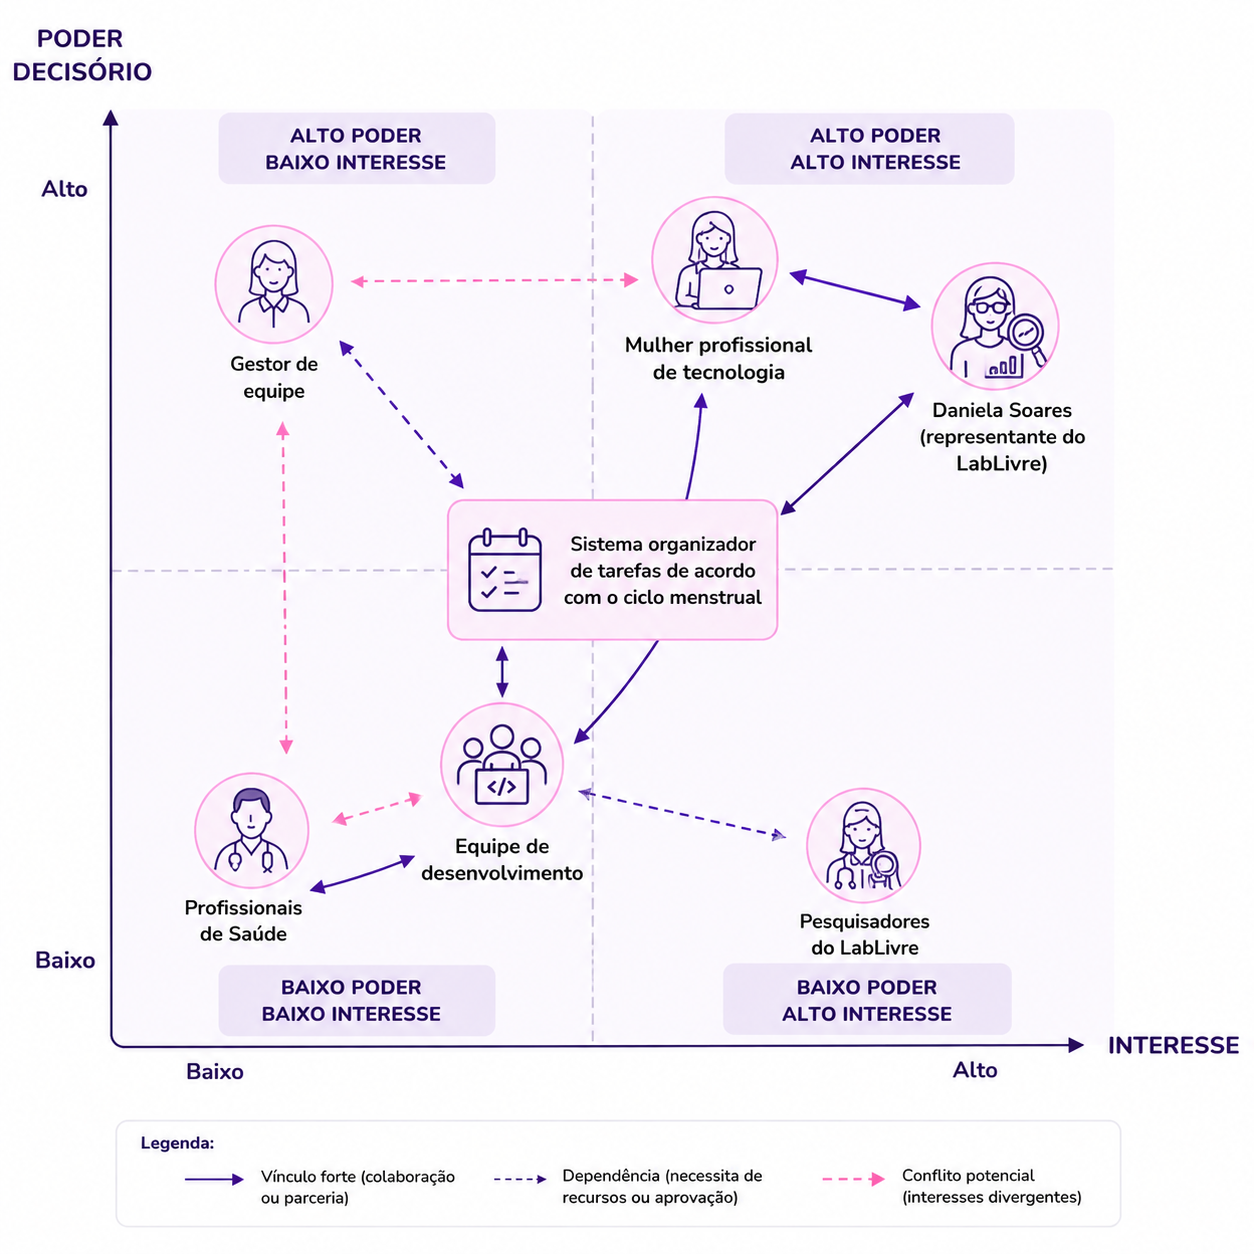
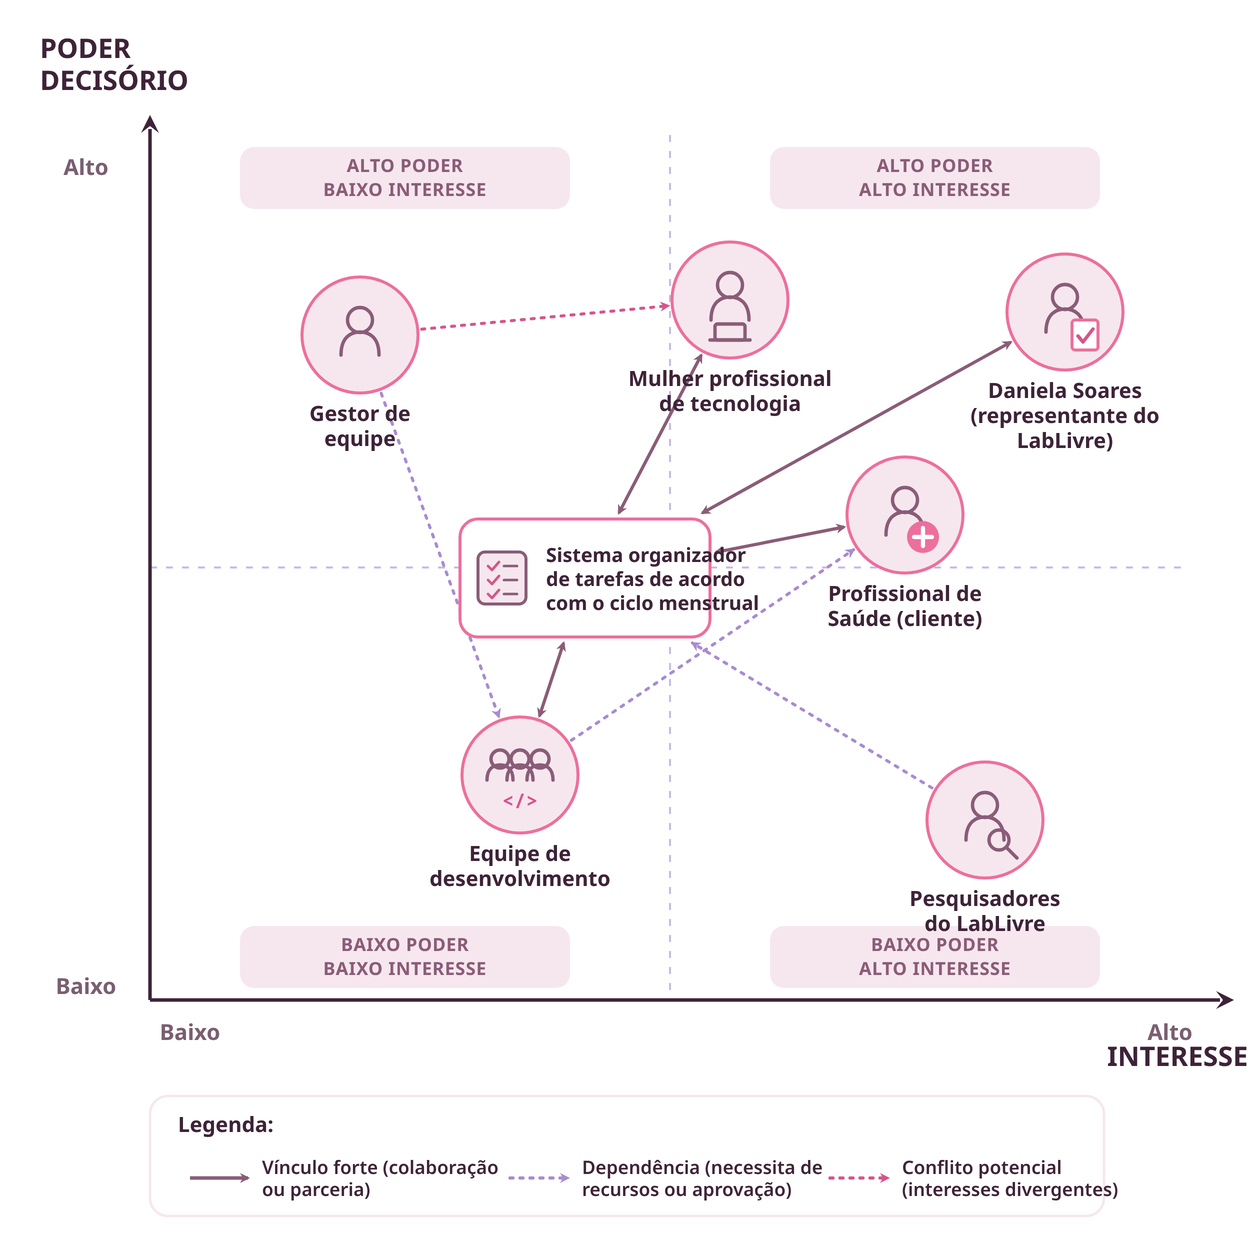
docs(visao): atualiza o mapa de stakeholders e a Figura 3 para a cliente profissional de saúde

diff --git a/content/visao/01-cenario-atual.md b/content/visao/01-cenario-atual.md
@@ -126,7 +126,7 @@ pessoas.
 | Daniela Soares (representante do LabLivre) | Representante do cliente; valida decisões e aprova as entregas | Assegurar que a solução esteja alinhada aos princípios institucionais de inclusão e permanência de mulheres na tecnologia | Alto |
 | Gestor de equipe | Não é usuário do sistema, mas define as demandas e os prazos sobre os quais a usuária atua | Manter previsibilidade de entrega da equipe | Alto |
 | Equipe de desenvolvimento | Responsável pela construção | Entregar uma aplicação que atenda às necessidades reais do cliente | Alto |
-| Profissionais de Saúde | Consultores e potenciais colaboradores na validação das informações relacionadas ao ciclo menstrual | Garantir que as informações sobre o ciclo e seus impactos sejam apresentadas de forma adequada e responsável | Baixo |
+| Profissional de Saúde (cliente) | Cliente da área de saúde; valida a correção clínica das informações sobre ciclo, sintomas e fases e das recomendações e participa da aceitação das entregas de conteúdo sensível (Seção 7) | Garantir que as informações sobre o ciclo e as recomendações sejam apresentadas de forma clinicamente correta e responsável | Alto |
 
 {{< figura src="figura3-mapa-stakeholders.png" numero="3"
           alt="Mapa de stakeholders posicionados por poder decisório e interesse, com os vínculos de colaboração, dependência e conflito potencial entre eles."
